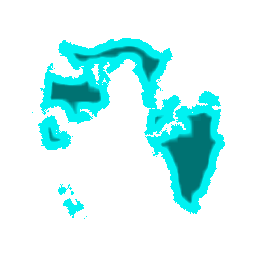
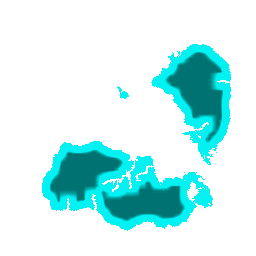
Created initial lighting
Added directional lighting and shading to scene
A sun is still desired...

diff --git a/src/world/World.java b/src/world/World.java
@@ -13,7 +13,7 @@ public class World {
 	int width = 5;
 	int height = 5;
 
-	public static int VOXEL_SIZE = 2;
+	public static float VOXEL_SIZE = 1f;
 
 	Random rGen;
 
@@ -105,7 +105,7 @@ public class World {
 
 
 	public float sampleHeight(Vector3 position) {
-		int xi = (int)(position.x)/VOXEL_SIZE; int zi = (int)(position.z)/VOXEL_SIZE;	
+		int xi = (int)(position.x/VOXEL_SIZE); int zi = (int)(position.z/VOXEL_SIZE);	
 		int xc = xi/Chunk.CHUNK_WIDTH; int zc = zi/Chunk.CHUNK_DEPTH;	
 
 				

diff --git a/src/world/Chunk.java b/src/world/Chunk.java
@@ -26,8 +26,8 @@ public class Chunk {
 	public Chunk(int xPos, int zPos) {
 		dx = xPos * CHUNK_WIDTH;
 		dz = zPos * CHUNK_DEPTH;
-		dxc = dx * World.VOXEL_SIZE;
-		dzc = dz * World.VOXEL_SIZE;
+		dxc = (int)(dx * World.VOXEL_SIZE);
+		dzc = (int)(dz * World.VOXEL_SIZE);
 	}
 
 	public int[][] getMap() {

diff --git a/src/generation/biomes/BiomeToVoxel.java b/src/generation/biomes/BiomeToVoxel.java
@@ -5,7 +5,7 @@ import world.voxels.*;
 public class BiomeToVoxel {
 
 
-	public static Voxel getVoxel(BIOME b, int voxelSize) {
+	public static Voxel getVoxel(BIOME b, float voxelSize) {
 		Voxel v = null;
 		switch(b) {
 		case OCEAN:

diff --git a/src/main/Game.java b/src/main/Game.java
@@ -17,7 +17,7 @@ public class Game {
 	public void initialize(long window) {
 		this.window = window;
 
-		p = new Player(window, 10);
+		p = new Player(window, 15);
 
 		cam = new Camera(p.transform);
 		world = new World();

diff --git a/src/main/Camera.java b/src/main/Camera.java
@@ -29,7 +29,7 @@ public class Camera {
 	Transform target;
 
 	
-	Vector3 follow = new Vector3(0, 5, 15);
+	Vector3 follow = new Vector3(0, 10, 30);
 
 	public Camera(Transform target) {
 		position = new Vector3();

diff --git a/src/entities/player/Player.java b/src/entities/player/Player.java
@@ -23,7 +23,7 @@ public class Player {
 
 
 	float[] verts; float[] colors; int[] indices;
-	float size = 2;
+	float size = 4;
 	float speed;
 
 
